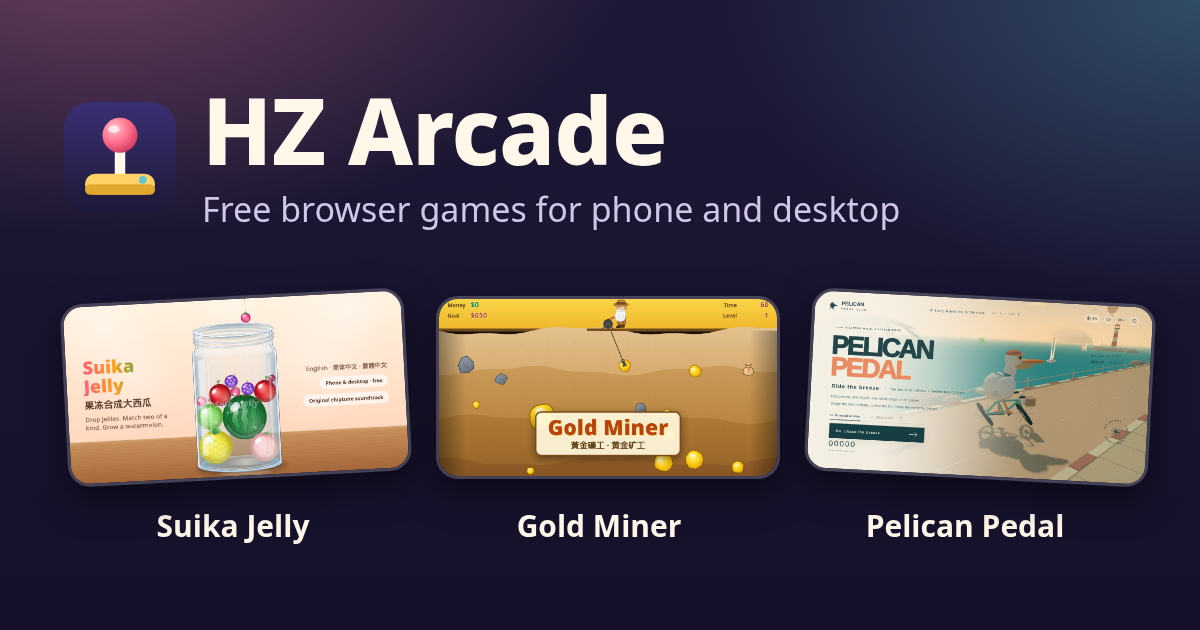
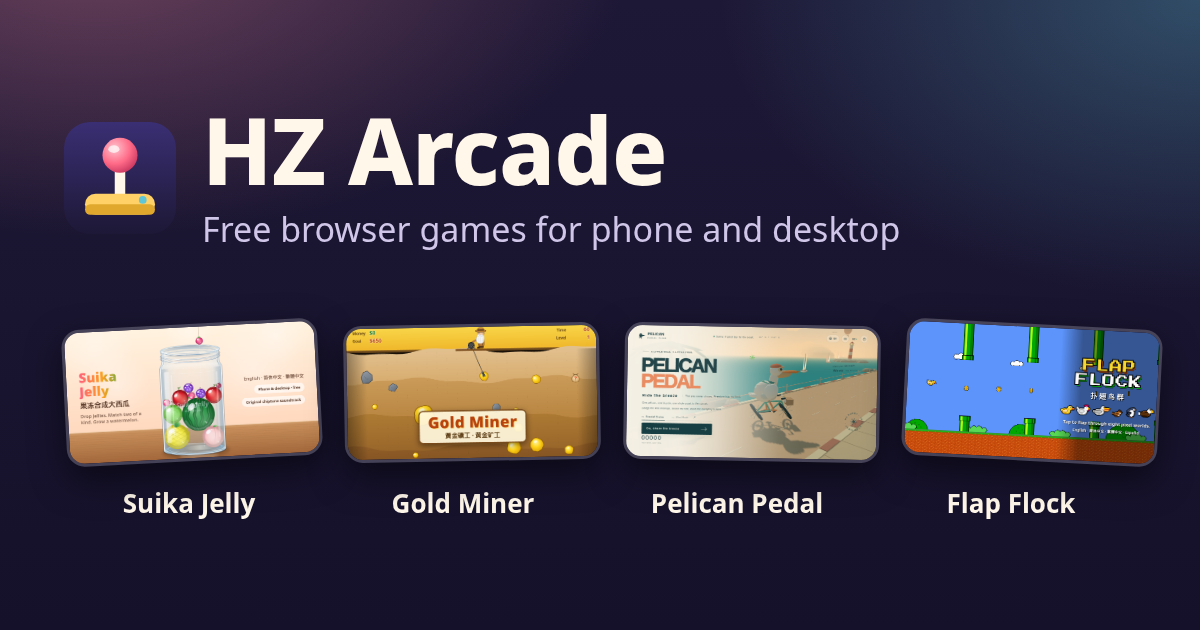
Add Flap Flock to the catalog
A fourth card with its texts in all four languages, and a new "Pixel
art" tag. The link preview now lays out any number of game covers from
one list.

Changed region(s): [[0.0308, 0.4524, 0.9867, 0.8746], [0.0308, 0.1508, 0.7708, 0.3921]]

diff --git a/catalog.js b/catalog.js
@@ -17,12 +17,15 @@
       'gold.desc': 'Swing the hook, grab the gold and beat the clock. Play alone or with a friend.',
       'pelican.title': 'Pelican Pedal',
       'pelican.desc': 'A pelican, a bicycle and a whole coast to the sunset. A calm 3D ride.',
+      'flock.title': 'Flap Flock',
+      'flock.desc': 'Tap to flap a duck, a chicken or a pelican through eight pixel worlds, then go endless.',
       'tag.puzzle': 'Puzzle',
       'tag.leaderboard': 'Global leaderboard',
       'tag.arcade': 'Arcade',
       'tag.coop': 'Two-player co-op',
       'tag.3d': '3D',
       'tag.relax': 'Relaxing',
+      'tag.pixel': 'Pixel art',
       'foot.note': 'Games work offline once opened, and can be added to your home screen.',
       'foot.source': 'Source on GitHub',
       'lang.label': 'Language',
@@ -38,12 +41,15 @@
       'gold.desc': '甩出钩子，抓住黄金，和时间赛跑。可以单人玩，也可以和朋友一起玩。',
       'pelican.title': '鹈鹕踏浪',
       'pelican.desc': '一只鹈鹕，一辆自行车，沿着海岸骑向日落。轻松的 3D 骑行游戏。',
+      'flock.title': '扑翅鸟群',
+      'flock.desc': '轻点扑翅，带着鸭子、母鸡、鹈鹕飞过八个像素世界，还有无尽模式。',
       'tag.puzzle': '益智',
       'tag.leaderboard': '全球排行榜',
       'tag.arcade': '街机',
       'tag.coop': '双人合作',
       'tag.3d': '3D',
       'tag.relax': '休闲',
+      'tag.pixel': '像素风',
       'foot.note': '游戏打开一次后可离线游玩，也可以添加到主屏幕。',
       'foot.source': 'GitHub 源代码',
       'lang.label': '语言',
@@ -59,12 +65,15 @@
       'gold.desc': '甩出鉤子，抓住黃金，和時間賽跑。可以單人玩，也可以和朋友一起玩。',
       'pelican.title': '鵜鶘踏浪',
       'pelican.desc': '一隻鵜鶘，一輛腳踏車，沿著海岸騎向日落。輕鬆的 3D 騎行遊戲。',
+      'flock.title': '撲翅鳥群',
+      'flock.desc': '輕點撲翅，帶著鴨子、母雞、鵜鶘飛過八個像素世界，還有無盡模式。',
       'tag.puzzle': '益智',
       'tag.leaderboard': '全球排行榜',
       'tag.arcade': '街機',
       'tag.coop': '雙人合作',
       'tag.3d': '3D',
       'tag.relax': '休閒',
+      'tag.pixel': '像素風',
       'foot.note': '遊戲打開一次後可離線遊玩，也可以加入主畫面。',
       'foot.source': 'GitHub 原始碼',
       'lang.label': '語言',
@@ -80,12 +89,15 @@
       'gold.desc': 'Lanza el gancho, atrapa el oro y gana al reloj. Juega en solitario o con un amigo.',
       'pelican.title': 'Pelican Pedal',
       'pelican.desc': 'Un pelícano, una bicicleta y toda una costa hasta la puesta de sol. Un paseo tranquilo en 3D.',
+      'flock.title': 'Flap Flock',
+      'flock.desc': 'Toca para aletear con un pato, una gallina o un pelícano por ocho mundos de píxeles, y luego el modo infinito.',
       'tag.puzzle': 'Puzle',
       'tag.leaderboard': 'Clasificación mundial',
       'tag.arcade': 'Arcade',
       'tag.coop': 'Cooperativo para dos',
       'tag.3d': '3D',
       'tag.relax': 'Relajante',
+      'tag.pixel': 'Pixel art',
       'foot.note': 'Los juegos funcionan sin conexión después de abrirlos una vez y se pueden añadir a la pantalla de inicio.',
       'foot.source': 'Código en GitHub',
       'lang.label': 'Idioma',

diff --git a/index.html b/index.html
@@ -6,7 +6,7 @@
     <meta name="theme-color" content="#1d1836" />
     <meta name="color-scheme" content="dark" />
     <title>HZ Arcade · 小游戏厅</title>
-    <meta name="description" content="Free browser games for phone and desktop: Suika Jelly, Gold Miner and Pelican Pedal. No install, no ads. English · 简体中文 · 繁體中文." />
+    <meta name="description" content="Free browser games for phone and desktop: Suika Jelly, Gold Miner, Pelican Pedal and Flap Flock. No install, no ads. English · 简体中文 · 繁體中文 · Español." />
     <link rel="canonical" href="https://arcade.hz.ax/" />
     <link rel="icon" href="/favicon.svg" type="image/svg+xml" />
     <link rel="apple-touch-icon" href="/apple-touch-icon.png" />
@@ -21,7 +21,7 @@
     <meta property="og:image:type" content="image/png" />
     <meta property="og:image:width" content="1200" />
     <meta property="og:image:height" content="630" />
-    <meta property="og:image:alt" content="HZ Arcade: Suika Jelly, Gold Miner and Pelican Pedal" />
+    <meta property="og:image:alt" content="HZ Arcade: Suika Jelly, Gold Miner, Pelican Pedal and Flap Flock" />
     <meta property="og:locale" content="en_US" />
     <meta property="og:locale:alternate" content="zh_CN" />
     <meta property="og:locale:alternate" content="zh_TW" />
@@ -100,6 +100,20 @@
               <ul class="tags">
                 <li data-i18n="tag.3d">3D</li>
                 <li data-i18n="tag.relax">Relaxing</li>
+              </ul>
+              <span class="play" data-i18n="play">Play</span>
+            </div>
+          </a>
+        </li>
+        <li>
+          <a class="card" href="/flap-flock/" data-game="flap-flock" style="--accent: #6cc644">
+            <img class="cover" src="/flap-flock/cover.png" alt="" width="1200" height="630" loading="eager" />
+            <div class="body">
+              <h2 data-i18n="flock.title">Flap Flock</h2>
+              <p data-i18n="flock.desc">Tap to flap a duck, a chicken or a pelican through eight pixel worlds, then go endless.</p>
+              <ul class="tags">
+                <li data-i18n="tag.pixel">Pixel art</li>
+                <li data-i18n="tag.leaderboard">Global leaderboard</li>
               </ul>
               <span class="play" data-i18n="play">Play</span>
             </div>

diff --git a/README.md b/README.md
@@ -9,6 +9,7 @@ under the same domain:
 | Suika Jelly | https://arcade.hz.ax/suika-jelly/ | `suika-jelly` |
 | Gold Miner | https://arcade.hz.ax/gold-miner/ | `gold-miner` |
 | Pelican Pedal | https://arcade.hz.ax/pelican-pedal/ | `pelican-pedal` |
+| Flap Flock | https://arcade.hz.ax/flap-flock/ | `flap-flock` |
 
 ## How the addresses work
 
@@ -21,7 +22,7 @@ serves every other repository in the organization that has Pages turned on at
 1. Create the game's repository in this organization and turn on Pages for it. It must be built
    for the base path `/<repository name>/`.
 2. Give it a `cover.png` (1200x630) at its root.
-3. Add a card to `index.html` and its texts to the three tables in `catalog.js`.
+3. Add a card to `index.html` and its texts to the four tables in `catalog.js`.
 4. Run `node scripts/assets.mjs` to refresh the link preview image, then push.
 
 ## Files
